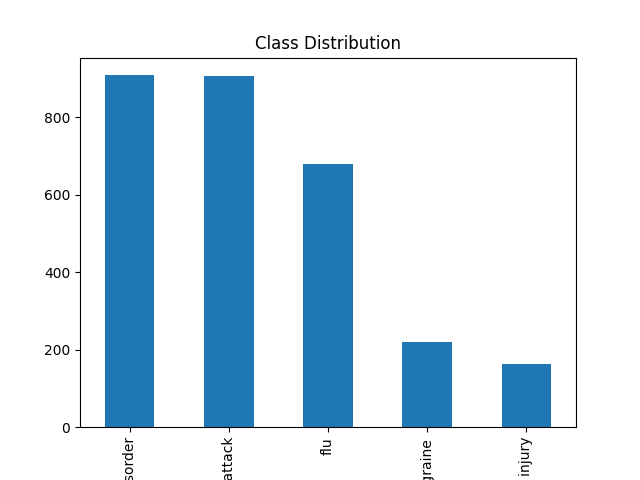
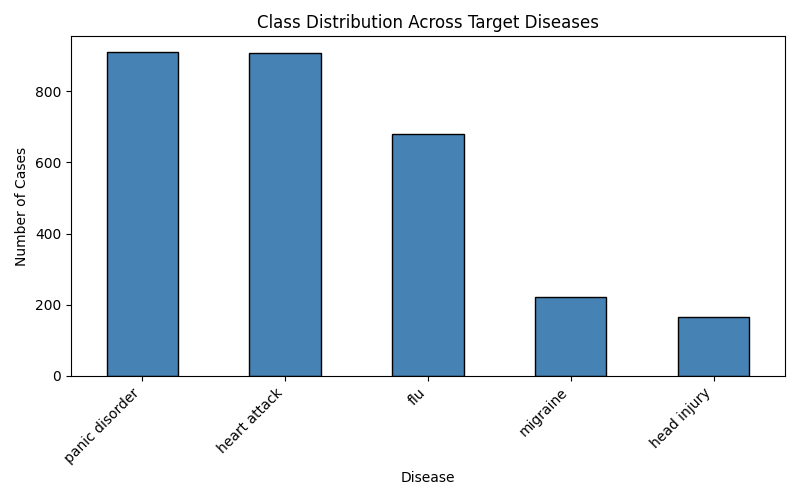
final EDA commit

Changed region(s): [[0.0, 0.0312, 1.0, 1.0], [0.0625, 0.9062, 0.0938, 0.9375]]

diff --git a/DataClean.py b/DataClean.py
@@ -2,33 +2,63 @@ import pandas as pd
 import matplotlib.pyplot as plt
 import seaborn as sns
 
+#drop nontarget disease rows
 df = pd.read_csv('./dataset/data.csv')
 target_diseases = ['panic disorder', 'flu', 'heart attack', 'migraine', 'head injury']
 filtered_df = df[df['diseases'].isin(target_diseases)].copy()
 
 symptom_cols = filtered_df.columns.drop('diseases')
-cols_to_keep = symptom_cols[filtered_df[symptom_cols].sum() > 0]
+
+cols_to_keep = symptom_cols[filtered_df[symptom_cols].sum() > 0] #checks for all 0 columns by summing
 filtered_df = filtered_df[['diseases'] + list(cols_to_keep)]
 
+#number of columns/before after data cleaning (getting rid of 0 columns)
 print(f"Columns before: 377")
 print(f"Columns after: {len(cols_to_keep)}")
+
+#shape of filtered data
 print(filtered_df.shape)
 filtered_df.to_csv('./dataset/filtered_data.csv', index=False)
+
+#missing values check
+print("Missing values:", filtered_df.isnull().sum().sum())
 
 proportions = (filtered_df['diseases'].value_counts(normalize=True))
 proportions.to_csv('./dataset/dataproportions.csv', index=True)
 
-print(filtered_df.isnull().sum().sum())
-
-filtered_df['diseases'].value_counts().plot(kind='bar')
-plt.title('Class Distribution')
+plt.figure(figsize=(8, 5))
+filtered_df['diseases'].value_counts().plot(kind='bar', color='steelblue', edgecolor='black')
+plt.title('Class Distribution Across Target Diseases')
+plt.xlabel('Disease')
+plt.ylabel('Number of Cases')
+plt.xticks(rotation=45, ha='right')
+plt.tight_layout()
 plt.savefig('class_dist.png')
 
+#top 20 most prevalent symptoms for all diseases
 symptom_cols = filtered_df.columns[1:]
 symptom_means = filtered_df.groupby('diseases')[symptom_cols].mean()
-
+plt.figure(figsize=(16, 6))
 top_symptoms = symptom_means.var().nlargest(20).index
 sns.heatmap(symptom_means[top_symptoms], cmap='Blues')
 plt.xticks(rotation=45, ha='right')
+plt.yticks(rotation=0)
 plt.tight_layout()
 plt.savefig('symptom_heatmap.png')
+
+
+""""#correlation heatmap b/w diseases and top symptoms
+top_symptom_data = filtered_df[list(top_symptoms)]
+plt.figure(figsize=(12, 10))
+sns.heatmap(top_symptom_data.corr(), cmap='coolwarm', center=0)
+plt.title('Symptom Correlation Matrix')
+plt.tight_layout()
+plt.savefig('symptom_correlation.png')"""
+
+#top 5 symptoms for each disease, each decimal is for example for panic disorder
+#depressive_or_psychotic_symptoms    0.682068 means 68.2% of panic disorder patients have that symptom
+for disease in target_diseases:
+    disease_df = filtered_df[filtered_df['diseases'] == disease]
+    top = disease_df[symptom_cols].mean().nlargest(5)
+    print(f"\n{disease.upper()}")
+    print(top)
